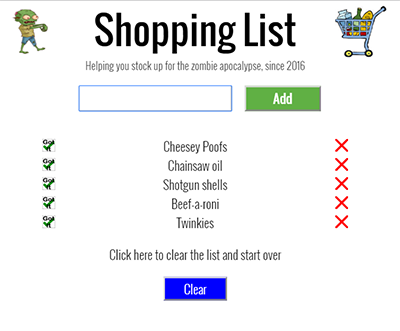
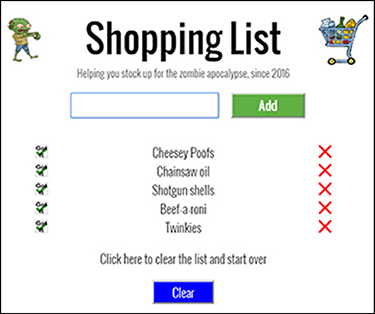
image optimization

Changed region(s): [[0.0, 0.0, 1.0, 1.0], [0.088, 0.4013, 0.1467, 0.7452], [0.8213, 0.4013, 0.88, 0.7452]]

diff --git a/index.html b/index.html
@@ -49,7 +49,7 @@
 			<h2>Sample Projects</h2>
 		</div>
 		<div class="wrapper">
-			<a href="http://jberthiaume1138.github.io/shopping-list" target="blank"><img src="images/shopping-list.jpg" width="300" alt="shopping-list-screenshot"></a>
+			<a href="http://jberthiaume1138.github.io/shopping-list" target="blank"><img src="images/shopping-list.png" width="300" alt="shopping-list-screenshot"></a>
 			<!-- <div class="project-description"> -->
 				<h3>Shopping List</h3>
 				<p>This is a simple application to help you keep track items to buy on shopping trip. It uses jQuery and Javascript, and the user experience is responsively built using HTML5 and CSS3.</p>
@@ -58,7 +58,7 @@
 			<!-- </div> -->
 		</div>
 		<div class="wrapper">
-			<a href="http://jberthiaume1138.github.io/quiz" target="blank"><img src="images/quiz.png" width="300" alt="quiz-screenshot"></a>
+			<a href="http://jberthiaume1138.github.io/quiz" target="blank"><img src="images/quiz.gif" width="300" alt="quiz-screenshot"></a>
 			<div class="project-description">
 				<h3>Comic Book Quiz</h3>
 				<p>Test your comic book knowledge with this triva quiz. This applcation is responsively built with modern HTML5 and CSS3 technology and all of the functionality is pure Javascript.</p>

diff --git a/style/style.css b/style/style.css
@@ -220,9 +220,13 @@ section a:hover {
 /*  display: flex;
   flex-flow: row;
   align-items: flex-start;
-  justify-content: flex-start;
-*/  padding: 1em;
+  justify-content: flex-start; */
+  padding: 1em;
   font-size: 1em;
+}
+
+#projects .wrapper:nth-child(odd) {
+   background-color: #E0E0E0;
 }
 
 @media all and (max-width: 600px) {
@@ -239,14 +243,10 @@ section a:hover {
   }
 }
 
-#projects .wrapper:nth-child(odd) {
-   background-color: #E0E0E0;
-}
-
 @media all and (max-width: 800px) {
-  #projects .wrapper {
+/*  #projects .wrapper {
     flex-flow: column;
-  }
+  }*/
   #logo3js {
     width: 300px;
     height: auto;
